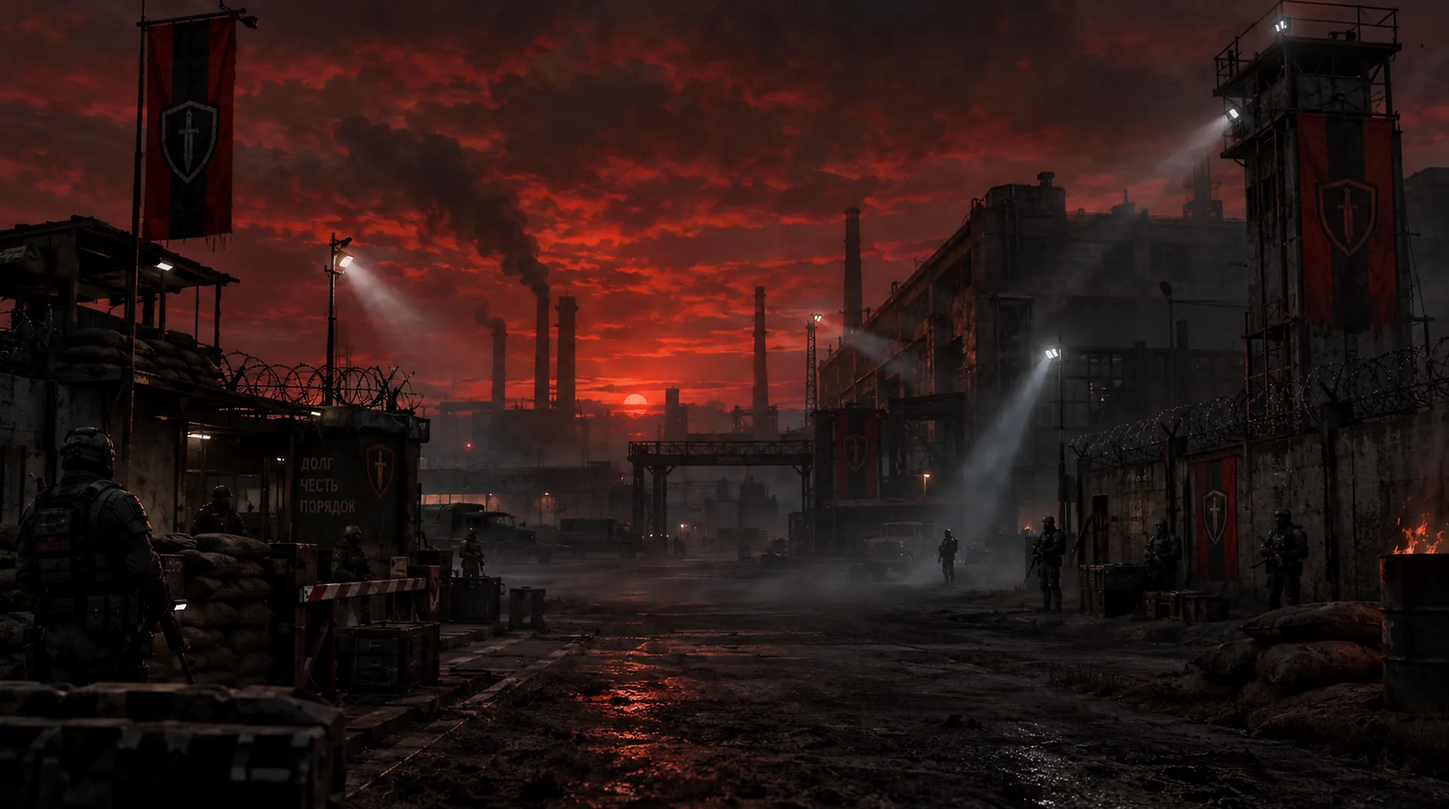
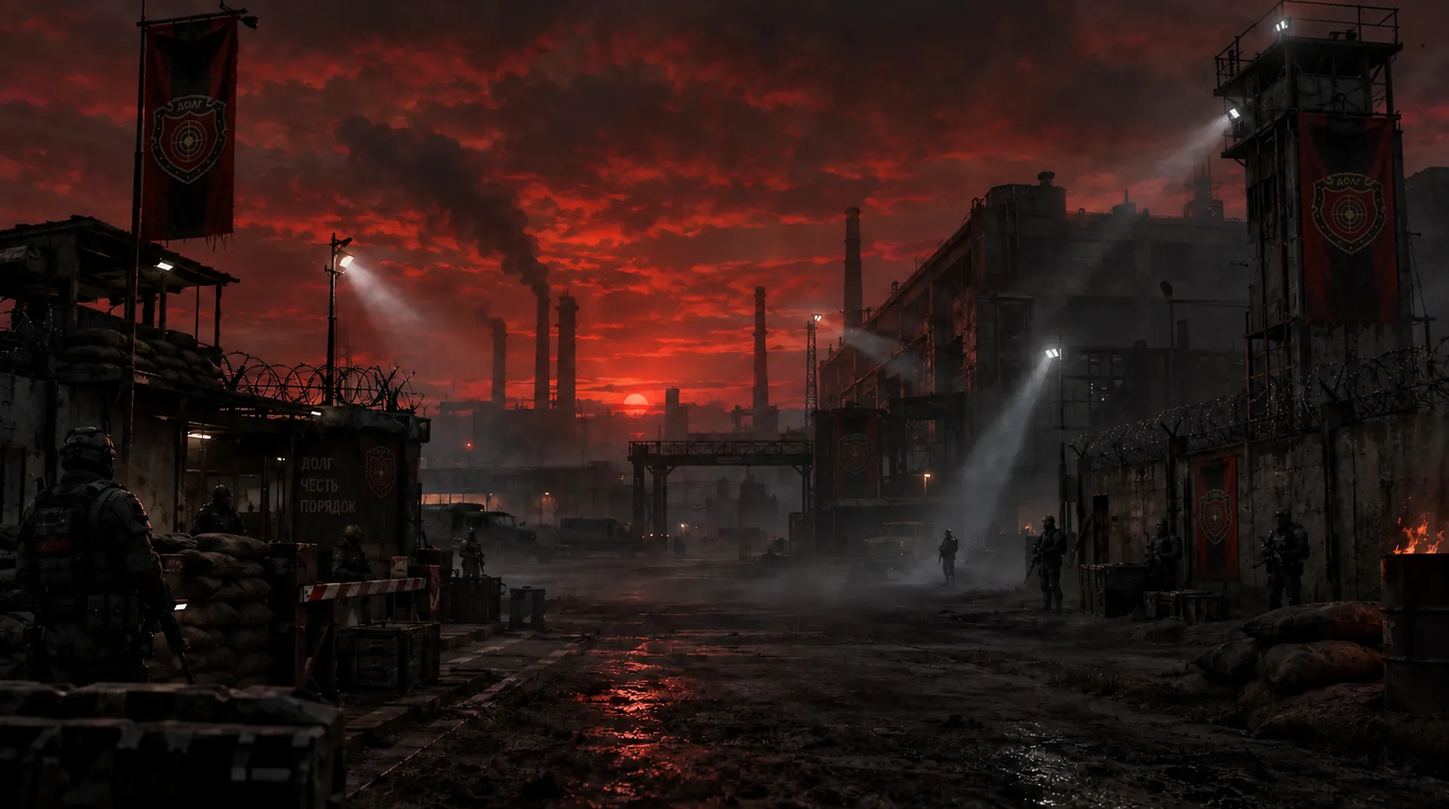
Исправления
Upd: Немного улучшены фоны для группировок Долг и Свобода

diff --git a/ui.js b/ui.js
@@ -65,16 +65,17 @@ window.__roll = function (el, text) {
   ];
   /* Значки группировок — шевроны-нашивки 64×72: щиток с полосой сверху, пунктир-прострочка по краю,
      внутри каноничная эмблема без надписей. Наёмники — орёл, Долг — мишень, Свобода — волк с листьями,
-     Учёные — колба, Монолит — атом, фигура и глаз.
+     Монолит — атом, фигура и глаз.
      Рассвет и Вольные сталкеры — каноничные нашивки целиком: синий щит с солнцем, чайками и лентой,
-     кожаная нашивка с жёлтым знаком радиации. Цвета зашиты в SVG, CSS их не перекрашивает */
+     кожаная нашивка с жёлтым знаком радиации. Учёные — каноничная круглая нашивка (колба, ДНК, венок),
+     картинкой webp 160×160 прямо в SVG (data:), чтобы работала и в превью build-previews.js. Цвета зашиты в SVG, CSS их не перекрашивает */
   var GLYPHS = {
     merc: '<path d="M7 3h50a3 3 0 0 1 3 3v34c0 14-12 24-28 30C16 64 4 54 4 40V6a3 3 0 0 1 3-3z" fill="#0b0f18" stroke="#5f8ac9" stroke-width="3.5" stroke-linejoin="round"/><path d="M5.8 4.8h52.4V13H5.8z" fill="#5f8ac9"/><path d="M10 8h44v32c0 11-9.5 19-22 24C19.5 59 10 51 10 40z" fill="none" stroke="#e3a24a" stroke-opacity=".55" stroke-width="1.3" stroke-dasharray="3 2.4"/><path d="M52.1 32.8 49.6 29.6 47.2 27.3 45.2 25.9 44.7 25.5 43.2 24.5 40.3 23.0 40.0 22.9 39.8 22.7 39.6 22.7 38.5 22.1 36.3 21.4 35.3 21.2 35.2 20.9 35.7 20.4 36.3 19.3 36.9 18.6 37.0 18.2 36.5 18.5 35.7 18.7 35.2 19.0 34.8 19.0 34.7 19.2 34.0 19.3 33.7 19.4 30.0 19.4 29.7 19.3 29.1 19.3 28.9 19.1 27.0 19.1 26.7 19.0 25.8 19.0 25.6 18.8 23.1 18.8 22.9 18.7 21.6 18.9 20.2 19.5 19.9 19.9 19.7 20.0 19.3 20.5 19.3 20.7 18.8 21.4 19.1 21.9 19.8 21.9 20.0 22.0 21.5 21.2 22.4 21.1 22.5 21.4 22.0 22.1 22.1 22.5 21.6 23.0 20.3 23.4 19.2 23.4 19.0 23.6 17.5 23.6 17.3 23.5 16.9 23.6 16.7 23.4 16.4 23.4 16.2 23.3 16.4 22.9 17.0 23.0 17.2 22.9 19.7 22.8 20.1 22.6 20.2 22.5 20.0 22.3 18.1 22.4 17.8 22.5 16.4 22.5 16.1 22.7 15.4 22.7 14.9 22.8 14.7 23.1 13.3 23.1 13.1 23.3 12.3 23.3 11.2 23.7 10.4 24.7 10.0 26.3 10.2 26.8 10.2 27.4 10.5 27.7 10.5 28.1 10.8 28.4 11.0 29.0 11.6 29.5 11.9 29.6 12.5 30.2 12.7 30.2 12.2 29.0 12.1 28.2 12.4 27.4 13.2 26.6 13.4 26.6 14.5 26.1 15.2 26.0 16.1 26.1 16.9 26.3 17.5 26.2 18.5 26.5 19.1 26.4 19.4 26.5 20.7 26.6 20.9 26.8 20.8 27.1 19.9 27.1 19.7 27.3 19.4 27.1 18.8 27.1 18.5 26.9 18.0 26.7 16.9 26.7 15.9 27.3 16.1 27.7 16.5 27.6 16.8 27.2 18.1 27.2 18.6 27.5 19.1 27.5 19.4 27.7 20.1 27.7 20.4 27.5 21.4 27.4 21.6 27.5 21.6 27.7 20.8 28.4 20.2 28.4 19.7 28.7 19.3 28.6 18.5 28.7 18.3 28.6 16.9 28.6 15.8 28.4 15.5 28.6 15.3 28.4 14.5 28.4 13.3 28.0 13.1 27.7 12.7 27.6 12.5 27.8 12.5 28.0 13.1 29.3 13.9 29.8 14.6 30.1 15.5 30.1 16.4 30.5 17.3 30.4 17.5 30.5 19.6 30.6 20.6 30.8 21.1 31.1 21.3 31.5 22.4 32.4 22.6 32.9 22.8 32.8 22.7 32.6 22.7 32.0 22.5 31.7 22.7 31.4 22.9 31.3 23.7 32.2 24.2 33.1 24.2 33.3 24.0 33.5 24.0 33.9 24.4 34.8 24.6 34.8 24.8 35.1 25.0 35.0 25.0 34.3 25.2 33.7 25.4 33.7 25.7 34.0 26.6 36.1 26.6 37.2 26.7 37.4 26.6 38.1 26.6 39.2 26.1 40.6 25.8 41.2 25.7 41.6 25.0 42.1 24.0 43.6 23.4 44.1 23.5 44.2 23.6 44.2 24.1 43.6 24.4 43.6 24.6 43.9 24.4 44.2 22.5 46.0 21.8 46.4 21.6 46.7 21.3 46.7 20.7 47.2 19.3 47.7 18.5 48.3 18.5 48.6 18.8 48.6 19.1 48.3 19.7 48.2 19.8 48.3 19.8 48.5 19.1 49.2 18.8 49.3 18.1 50.0 17.0 50.7 16.7 51.0 16.5 51.1 16.3 51.4 16.1 51.4 15.5 51.7 15.3 52.0 15.1 52.1 14.8 52.4 14.3 52.6 13.5 53.2 12.7 53.6 11.9 54.1 12.4 54.2 12.6 53.9 13.1 53.9 14.1 53.6 14.4 53.7 15.1 53.4 16.0 53.3 16.8 53.0 18.6 53.0 19.0 53.6 19.0 54.7 18.8 54.9 19.1 55.3 19.5 55.4 19.8 54.9 20.7 54.6 21.1 54.3 23.1 53.5 23.6 53.5 24.0 53.9 24.0 54.5 24.1 54.7 24.3 55.7 24.6 55.8 24.8 55.6 25.0 55.2 25.7 54.4 25.7 54.1 26.3 53.3 27.2 51.8 28.6 49.0 29.1 47.3 29.1 46.9 29.4 46.5 29.4 45.7 29.5 45.5 29.6 44.5 29.7 44.3 29.7 42.9 29.8 42.6 29.8 40.0 30.0 39.6 29.7 38.9 29.5 37.4 29.3 37.1 29.3 36.8 28.7 35.3 28.5 34.4 28.2 33.9 28.2 33.7 28.6 33.5 28.8 33.9 29.1 34.1 29.6 35.6 29.9 36.0 29.9 36.3 30.2 36.8 30.4 38.7 30.6 39.0 30.6 40.8 30.7 41.0 30.7 42.5 30.9 42.7 30.9 43.8 30.7 44.0 30.9 44.4 30.8 44.8 30.9 45.5 30.7 46.1 30.7 48.8 30.4 49.2 30.4 49.6 30.3 49.9 30.2 50.5 29.4 52.3 28.4 54.0 28.1 54.4 27.8 55.0 28.7 54.6 29.2 54.6 29.4 54.3 30.0 54.2 30.6 54.3 31.0 54.6 31.3 54.6 31.7 55.0 33.6 53.5 33.9 53.5 34.1 53.2 34.7 53.1 34.8 53.3 35.7 53.8 36.0 54.2 36.8 54.6 37.1 54.4 36.8 53.2 37.0 52.9 37.0 52.5 37.2 52.0 37.2 51.6 37.3 51.5 37.3 48.6 37.1 48.3 37.1 47.2 36.9 46.5 36.8 45.4 36.6 44.9 36.6 44.4 36.3 43.8 36.3 43.4 36.0 43.0 35.8 42.3 35.2 41.1 35.2 40.8 34.7 40.1 34.4 39.1 34.0 38.6 33.4 37.3 33.0 37.0 32.4 35.7 32.0 35.4 31.9 35.0 31.3 34.4 30.5 33.1 29.5 32.2 29.2 31.6 27.4 29.9 26.4 29.1 26.0 28.5 23.9 27.1 23.7 26.8 23.7 26.7 23.9 26.5 24.2 26.7 24.6 26.7 25.0 27.1 26.4 28.1 26.7 28.5 27.5 28.9 27.9 29.4 28.5 29.9 29.2 30.6 29.8 31.0 30.8 32.2 31.5 32.8 31.6 33.2 32.4 34.0 32.6 34.7 33.0 35.0 33.5 35.7 33.5 35.9 34.0 36.3 34.1 36.7 34.4 37.0 35.4 38.7 35.9 39.3 35.9 39.7 36.3 40.0 36.3 40.3 36.6 40.6 36.9 41.0 36.9 41.3 37.7 42.2 37.7 42.6 37.5 42.8 37.3 42.8 37.1 43.1 37.7 43.7 38.1 44.7 38.8 45.6 38.8 45.9 39.9 49.0 39.9 49.6 40.5 51.2 40.5 51.6 40.6 51.9 40.6 52.5 40.5 52.9 40.6 53.2 40.7 54.0 40.5 55.2 40.7 55.2 41.0 54.3 41.8 53.3 42.0 52.7 42.5 52.2 42.8 52.3 42.8 52.6 43.2 53.5 43.3 54.4 43.7 54.9 44.1 54.6 44.5 53.9 45.9 52.7 46.6 52.9 46.9 53.3 47.6 53.6 48.0 53.5 48.0 53.3 47.5 52.3 47.5 51.7 47.3 51.3 47.3 50.7 47.2 50.3 47.3 50.2 47.6 50.2 47.9 50.5 48.6 50.9 48.7 50.9 48.8 50.7 48.3 49.9 48.1 49.3 47.5 48.3 47.5 48.0 47.2 47.5 47.0 46.9 46.1 45.3 45.5 44.0 45.2 43.7 44.4 42.3 43.8 41.6 43.1 40.3 42.6 39.8 42.4 39.3 42.4 39.1 42.6 38.9 42.4 38.3 41.6 37.8 41.4 37.5 39.0 35.1 39.1 34.8 39.5 34.8 39.6 34.5 38.9 33.8 38.5 33.5 38.3 33.1 37.8 32.7 37.5 32.2 34.4 29.2 33.9 29.0 32.7 28.0 31.5 27.4 30.8 26.9 30.5 26.9 30.0 26.6 29.6 26.5 29.0 26.0 28.1 25.7 27.7 25.4 27.2 25.4 25.6 24.7 24.0 24.4 23.9 24.3 24.0 23.8 24.4 23.4 24.7 23.3 24.8 22.9 25.4 23.2 25.5 23.9 25.8 23.9 26.2 23.5 28.7 23.1 28.9 23.4 28.3 24.4 28.4 24.7 29.3 24.8 29.5 24.9 30.9 25.1 33.5 25.9 34.9 26.8 35.1 27.1 35.3 27.1 35.8 27.4 36.8 28.2 37.0 28.2 37.3 28.5 37.6 28.6 37.4 28.9 36.8 28.6 35.7 28.6 34.5 28.1 34.0 28.2 34.8 28.7 35.6 29.4 35.8 29.4 36.0 29.8 36.4 30.1 36.6 30.1 37.5 30.8 37.6 31.1 38.3 31.9 39.2 32.5 40.9 34.3 41.2 34.4 42.1 35.4 43.1 36.1 43.8 36.9 44.3 37.3 44.5 37.3 44.7 37.6 44.9 37.7 45.3 38.1 44.9 38.2 44.2 37.6 43.5 37.4 42.4 36.5 41.5 36.1 41.5 36.3 42.3 36.9 42.5 37.4 42.9 37.7 43.1 38.0 43.3 38.3 43.4 38.6 43.9 39.0 44.1 39.6 44.5 39.8 45.0 40.7 45.6 41.5 45.6 41.8 45.9 42.0 47.0 43.7 47.5 44.3 47.5 44.6 47.9 45.0 47.9 45.3 48.9 47.2 48.9 47.5 49.2 48.0 49.5 48.9 49.5 49.2 49.8 49.6 49.8 50.3 50.1 50.6 50.1 51.1 50.4 51.7 50.5 52.6 50.8 52.8 51.0 53.6 51.0 52.7 51.2 52.5 51.2 51.7 51.3 51.5 51.3 50.4 51.5 50.2 51.5 48.7 51.6 48.6 51.8 48.7 51.9 49.2 53.5 50.9 53.9 51.8 54.0 51.7 53.8 50.2 53.6 49.9 53.6 49.3 53.3 48.8 53.3 46.9 53.2 46.6 53.3 45.8 53.2 45.6 53.2 44.0 53.0 43.8 53.0 42.9 52.9 42.7 53.0 41.8 52.8 40.9 52.7 39.9 52.5 39.3 52.5 38.6 52.7 38.5 53.7 39.0 53.9 39.0 53.9 38.8 53.5 38.3 53.3 37.6 52.9 37.3 52.4 36.3 51.9 35.0 51.5 34.7 51.5 34.4 50.6 32.9 50.6 32.7 50.8 32.5 50.9 32.5 51.2 32.7 51.5 32.7 51.8 33.0 52.1 33.0ZM19.0 52.3 18.1 52.5 17.8 52.4 18.0 52.2 18.7 52.0ZM46.9 51.8 47.4 52.3 47.3 52.7 46.7 52.2ZM36.8 48.7 37.0 48.9 36.9 49.8 37.0 50.1 36.9 50.3 37.0 50.6 36.9 50.9 36.7 50.7 36.7 48.8ZM52.0 39.3 52.2 39.4 52.1 39.8 51.9 39.6ZM13.4 28.7 13.7 28.6 13.8 28.8 14.4 28.9 14.1 29.3 13.9 29.3 13.7 29.1 13.7 28.9 13.4 28.9ZM23.8 22.8 24.0 22.9 24.0 23.4 23.9 23.6 23.6 23.5ZM27.3 20.6 27.0 21.4 25.7 23.0 25.4 22.9 24.8 22.2 24.6 22.3 24.2 22.2 23.2 22.3 23.1 22.4 22.8 22.3 22.5 22.4 22.2 22.3 22.5 21.9 22.9 21.9 23.4 21.6 23.7 21.6 24.0 21.3 25.1 20.9 26.0 20.5 26.6 20.4ZM25.6 19.4 26.0 19.4 26.4 19.6 26.7 19.6 26.8 19.8 26.6 20.0 26.1 20.0Z" fill="#e3cf7a" fill-rule="evenodd"/><path d="M29.5 33.0 29.4 33.3 29.6 33.5 29.6 34.0 29.9 34.5 30.0 35.2 30.5 35.9 30.5 36.2 30.7 36.5 30.9 38.3 31.2 39.0 31.2 40.6 31.5 41.4 31.3 42.1 31.5 43.1 31.5 44.9 31.3 45.6 31.3 48.8 31.0 49.2 30.9 50.6 30.5 51.5 29.4 53.4 29.7 53.7 30.5 53.4 30.8 53.4 31.3 53.8 31.7 54.0 32.0 54.0 32.5 53.8 33.0 53.4 33.6 53.2 33.9 52.8 34.6 52.5 35.3 52.8 35.8 53.3 36.3 53.3 36.7 52.8 36.6 52.3 36.7 52.1 36.7 47.0 36.6 46.8 36.4 45.7 35.8 44.2 35.7 43.3 35.0 41.6 34.7 41.3 34.7 41.0 34.0 39.4 33.5 38.8 33.4 38.6 33.0 37.9 32.9 37.5 32.2 36.5 32.0 36.0 31.6 35.7 31.4 35.2 30.9 34.7 30.2 33.6 29.7 33.0ZM11.1 24.6 11.1 24.8 10.8 25.1 10.8 25.4 10.7 25.7 10.7 27.0 11.3 28.1 11.7 27.8 11.8 27.4 12.1 26.8 12.7 26.3 13.1 26.1 13.4 26.1 14.5 25.5 15.8 25.5 16.0 25.6 16.7 25.5 16.9 25.7 17.8 25.8 19.3 25.8 19.9 26.1 20.7 26.1 20.9 26.2 21.3 26.2 22.2 26.7 22.4 26.9 22.4 27.6 21.6 28.9 21.2 29.0 20.9 29.0 20.6 29.3 17.2 29.3 17.0 29.1 14.3 29.1 14.2 29.3 14.6 29.5 15.7 29.5 16.2 29.8 20.3 30.2 21.1 30.5 21.8 30.9 21.9 30.7 22.0 30.3 22.2 30.1 22.5 30.1 22.9 30.7 23.8 31.4 24.0 31.8 24.7 32.3 25.1 32.4 26.0 33.4 27.2 36.1 27.2 37.7 27.0 38.0 27.2 38.6 26.9 39.8 27.0 40.1 26.5 41.1 26.0 41.7 26.0 42.0 26.6 42.2 26.7 42.5 26.0 43.3 25.9 43.8 24.1 45.4 23.9 45.5 23.3 46.2 22.8 46.6 22.4 46.7 22.1 47.2 22.2 47.6 22.0 47.9 21.7 48.0 21.3 48.5 20.8 48.7 19.9 49.4 19.6 49.5 18.9 50.2 18.6 50.3 18.3 50.6 17.0 51.4 16.4 51.9 16.2 51.9 15.9 52.4 15.6 52.5 15.7 52.7 16.4 52.7 18.7 52.0 19.0 52.2 19.3 52.6 19.4 53.8 19.7 54.4 20.0 54.5 22.8 53.1 23.2 52.8 23.5 52.5 23.7 52.5 24.1 52.8 24.7 54.5 24.9 54.6 25.9 53.2 26.2 52.3 26.9 51.6 27.2 50.9 27.5 50.6 27.7 49.9 28.2 48.6 28.3 48.0 28.5 47.8 28.5 47.3 29.0 46.3 29.0 45.7 29.1 45.5 29.1 44.4 29.3 44.2 29.3 40.7 29.4 40.5 29.4 39.4 29.1 38.5 29.0 37.7 28.7 37.2 28.7 36.5 28.0 34.9 27.5 33.4 27.7 33.2 28.3 33.0 28.5 32.7 29.1 32.7 29.2 32.5 28.8 32.3 28.5 31.7 27.8 31.1 26.4 30.0 26.3 29.6 25.9 29.4 25.6 29.0 23.9 27.7 23.6 27.7 23.0 27.1 23.0 26.6 23.9 25.7 24.1 25.7 25.2 26.7 26.0 27.0 26.5 27.4 27.1 28.1 27.8 28.6 28.6 29.5 29.5 30.2 29.8 30.3 30.3 30.7 30.4 31.0 31.1 31.7 31.3 32.2 31.8 32.6 32.4 33.4 33.0 34.1 33.3 34.5 33.4 34.8 33.8 35.3 34.5 36.4 35.3 37.3 35.4 37.7 35.7 38.0 36.1 38.8 36.6 39.3 36.8 39.9 37.4 41.0 38.1 41.8 39.1 43.0 39.6 43.4 39.7 43.8 39.2 44.0 38.9 44.0 38.8 44.3 39.5 45.9 39.5 46.2 39.7 46.7 39.9 47.0 40.0 47.8 40.3 48.2 40.5 49.5 40.9 50.4 40.9 51.1 41.2 51.7 41.2 52.5 41.5 52.6 41.8 52.3 42.2 51.4 42.6 50.9 42.9 50.9 43.2 51.3 43.3 52.4 43.9 53.6 44.3 53.6 45.6 52.2 46.0 52.0 46.2 52.0 46.5 52.2 46.7 52.1 46.8 51.8 46.7 51.0 46.3 50.1 46.2 49.3 46.3 48.7 46.5 48.6 46.8 48.6 47.0 48.2 46.7 47.8 46.7 47.4 46.3 46.6 46.0 46.3 45.8 45.8 45.5 45.5 45.3 44.6 44.6 43.9 44.5 43.5 44.2 43.2 44.0 42.6 43.3 41.8 42.7 40.8 42.7 40.6 41.3 39.3 41.1 38.6 41.1 38.0 40.5 37.5 38.9 35.8 38.0 35.3 37.1 34.4 37.1 34.3 37.7 34.0 37.8 33.8 37.0 32.5 33.3 29.0 32.3 28.7 32.0 28.3 31.6 28.2 30.3 27.3 29.7 27.3 27.2 25.9 26.5 25.8 26.0 25.6 25.0 25.5 24.9 25.3 23.9 25.4 23.2 24.7 23.5 23.3 23.1 23.1 22.5 23.1 22.0 23.3 21.3 23.8 20.8 23.8 20.6 24.0 20.1 24.1 16.4 24.1 15.9 23.9 14.9 23.8 14.7 23.7 13.9 23.8 13.6 23.7 12.1 24.1 11.6 24.1ZM27.9 19.9 28.2 20.2 28.2 20.5 28.0 21.1 27.6 21.4 27.4 21.9 27.0 22.2 27.0 22.5 27.2 22.7 27.4 22.8 28.0 22.5 29.3 22.5 29.4 22.2 29.6 22.2 30.0 22.6 29.9 23.4 29.6 23.6 29.6 23.8 30.1 24.5 31.6 24.7 33.5 25.4 34.7 26.0 37.3 27.9 38.4 28.4 39.2 29.3 39.9 29.7 40.1 30.2 39.7 30.3 39.4 30.1 39.1 30.3 38.0 29.9 37.8 30.1 37.8 30.4 38.6 31.0 39.5 32.1 39.9 32.3 41.4 34.0 41.9 34.2 42.9 35.2 43.3 35.4 44.1 36.4 45.2 37.2 45.7 37.5 46.2 37.9 46.4 38.5 46.0 38.9 45.9 39.3 45.4 39.5 45.4 39.7 45.9 40.5 46.0 41.0 46.6 41.8 46.9 42.5 47.3 42.8 47.4 43.1 48.2 44.0 48.2 44.3 49.8 47.3 49.8 47.6 50.4 48.9 50.5 49.6 50.7 49.9 50.9 50.0 51.0 49.8 50.9 49.0 51.0 48.8 51.0 47.2 51.4 46.8 51.7 46.9 51.7 47.1 51.9 47.4 51.9 47.8 52.6 48.5 52.7 48.5 52.9 48.2 52.8 47.8 52.8 46.7 52.7 46.5 52.8 46.1 52.8 44.3 52.6 43.1 52.5 42.9 52.2 40.0 51.9 39.6 51.9 39.0 51.5 38.6 51.6 38.2 51.5 38.0 51.5 37.5 51.7 37.2 52.1 36.9 52.1 36.8 51.8 36.4 51.4 35.4 50.9 34.8 50.3 33.3 49.9 33.0 49.5 32.1 49.1 31.8 48.7 31.1 48.7 30.7 48.8 30.6 49.3 30.7 49.5 30.4 48.8 29.6 47.5 28.3 46.6 27.7 46.3 27.3 45.9 27.2 44.9 26.3 44.0 25.7 43.6 25.7 42.4 24.7 42.0 24.7 41.2 24.1 40.9 24.1 40.6 23.8 39.3 23.3 38.6 22.8 38.0 22.7 37.0 22.3 36.0 22.1 35.6 21.8 34.6 21.7 34.3 21.2 35.1 20.4 35.1 20.2 34.7 20.0 33.8 20.1 33.6 20.3 32.7 20.3 32.5 20.1 30.8 20.1 30.6 20.0 29.0 20.0 28.7 19.8ZM20.0 21.0 20.2 21.2 20.7 21.1 22.4 20.2 23.1 20.1 23.8 19.8 24.1 19.9 24.1 20.4 24.3 20.6 24.8 20.4 25.3 20.4 25.7 20.2 25.8 19.9 25.3 19.6 25.0 19.5 23.9 19.6 23.4 19.5 22.0 19.6 21.0 20.0 20.6 20.4 20.4 20.4Z" fill="#4a6cf0" fill-rule="evenodd"/>',
     dolg: '<path d="M7 3h50a3 3 0 0 1 3 3v34c0 14-12 24-28 30C16 64 4 54 4 40V6a3 3 0 0 1 3-3z" fill="#9a1f1c" stroke="#d9483f" stroke-width="3.5" stroke-linejoin="round"/><path d="M5.8 4.8h52.4V13H5.8z" fill="#d9483f"/><path d="M10 8h44v32c0 11-9.5 19-22 24C19.5 59 10 51 10 40z" fill="none" stroke="#e0b04a" stroke-opacity=".55" stroke-width="1.3" stroke-dasharray="3 2.4"/><g stroke="#e0b04a" stroke-width="1.2"><circle cx="32" cy="37" r="16" fill="#1b1f33"/><circle cx="32" cy="37" r="11.5" fill="#9a1f1c"/><circle cx="32" cy="37" r="7.2" fill="#1b1f33"/><circle cx="32" cy="37" r="3.6" fill="#e0b04a"/></g><path d="M32 18v38M13 37h38" stroke="#e0b04a" stroke-width="1.6"/>',
     svoboda:
       '<path d="M7 3h50a3 3 0 0 1 3 3v34c0 14-12 24-28 30C16 64 4 54 4 40V6a3 3 0 0 1 3-3z" fill="#0a1a0e" stroke="#4fb058" stroke-width="3.5" stroke-linejoin="round"/><path d="M5.8 4.8h52.4V13H5.8z" fill="#4fb058"/><path d="M10 8h44v32c0 11-9.5 19-22 24C19.5 59 10 51 10 40z" fill="none" stroke="#cfeedd" stroke-opacity=".55" stroke-width="1.3" stroke-dasharray="3 2.4"/><path d="M54.0 34.1 53.7 33.3 53.0 32.6 51.9 32.1 50.6 32.1 50.2 31.9 47.4 31.7 47.0 31.5 45.3 31.3 44.1 30.9 43.2 30.4 42.4 29.6 41.3 27.5 39.5 26.3 36.4 24.9 34.1 24.3 33.3 24.2 33.1 23.9 33.1 18.4 32.9 18.0 32.7 16.7 32.3 16.7 29.7 19.4 28.8 20.0 22.9 23.5 21.1 24.7 19.1 26.3 19.0 26.0 19.5 24.6 19.4 24.6 16.7 27.7 14.6 31.0 14.4 30.9 14.4 30.4 14.8 29.0 14.5 29.1 13.7 30.3 12.0 33.6 11.1 37.1 10.7 36.9 10.5 35.5 10.3 35.0 10.2 35.7 10.0 36.1 10.0 40.6 10.2 40.9 10.4 42.2 11.4 44.9 11.4 45.3 17.4 45.3 17.2 44.6 17.2 43.3 17.0 43.0 17.0 41.3 16.8 41.0 16.8 36.1 17.1 35.8 17.4 36.9 17.4 37.7 17.6 38.1 17.8 39.6 18.7 41.8 18.8 38.3 19.0 37.9 19.0 37.1 19.2 36.7 19.4 35.5 19.9 34.1 20.1 33.8 20.3 34.1 20.3 35.9 20.6 35.5 21.2 33.6 23.7 28.9 24.2 28.4 28.1 22.2 31.7 18.7 31.9 18.7 32.1 19.0 32.1 19.4 31.9 19.8 31.9 21.0 31.5 22.2 31.5 22.9 30.9 24.4 27.7 25.9 26.9 26.5 24.6 29.1 22.7 32.2 21.1 36.7 20.3 40.2 19.9 41.1 19.7 42.8 19.5 43.1 19.5 44.0 19.3 44.3 19.3 45.3 24.6 45.3 24.4 44.6 24.4 43.7 24.2 43.4 24.2 41.9 24.0 41.6 24.0 37.9 24.4 37.5 24.7 38.7 24.7 39.4 24.9 39.7 24.9 40.4 25.2 40.7 25.2 37.3 25.4 36.9 25.4 35.9 25.6 35.5 25.6 34.9 25.8 34.5 26.0 33.0 26.5 31.7 26.8 31.4 26.8 31.8 26.6 32.2 26.7 36.3 26.5 36.7 26.5 45.3 47.1 45.3 46.8 45.0 44.9 45.0 44.3 44.6 44.7 43.8 44.7 42.6 44.5 42.6 43.7 43.5 42.1 44.2 41.9 44.0 41.9 42.5 41.8 42.3 41.5 42.4 40.7 43.5 39.4 43.9 39.2 43.6 38.2 43.8 37.1 43.8 36.2 43.3 35.0 42.0 35.2 41.9 36.4 41.9 36.7 41.7 38.0 41.7 38.3 41.5 38.8 41.5 43.7 39.3 46.6 38.5 47.4 38.5 47.8 38.3 50.6 38.3 51.4 38.5 52.1 39.3 52.8 37.9 52.8 36.9 52.3 35.7 50.6 34.3 50.6 33.4 50.9 33.3 52.9 35.5 53.7 35.1 54.0 34.5ZM37.0 26.3 38.9 28.1 39.3 28.7 40.3 31.3 40.2 31.7 39.5 31.7 37.4 30.5 37.0 30.5 36.9 30.7 37.8 31.8 37.8 32.6 34.5 29.8 34.7 29.4 35.2 29.4 35.5 29.2 37.0 29.2 37.2 29.0 37.3 28.2 36.9 26.9Z" fill="#eafbe9" fill-rule="evenodd"/><path d="M51.8 32.9 51.9 33.5 52.7 34.2 53.1 34.3 53.1 33.5 52.3 32.9ZM52.2 37.1 51.7 35.9 50.2 34.7 50.0 34.3 50.0 32.8 49.6 32.5 48.2 32.5 47.8 32.3 45.1 31.9 43.0 31.0 41.8 29.8 41.7 29.4 41.1 28.3 40.5 27.7 39.1 26.9 38.9 26.9 38.9 27.1 39.7 28.1 40.4 29.4 40.8 30.9 41.7 32.1 41.7 32.4 41.6 32.5 40.3 32.5 40.0 32.3 39.3 32.3 38.8 32.1 38.8 32.9 39.3 34.1 39.2 34.5 38.8 34.5 33.5 29.6 33.7 29.2 35.1 28.6 36.2 28.6 36.4 28.4 36.5 27.4 36.3 27.1 36.3 26.4 35.9 25.6 34.8 25.1 33.1 24.8 32.3 23.8 32.3 23.5 32.1 23.4 31.5 24.6 31.1 25.0 29.3 25.7 27.9 26.5 27.0 27.3 25.2 29.3 24.8 30.0 24.4 30.5 22.9 33.4 21.5 37.5 21.1 39.6 20.7 40.3 20.7 41.0 20.3 41.9 20.3 42.8 20.1 43.1 20.1 44.0 19.9 44.3 19.9 45.3 24.0 45.3 23.8 44.8 23.8 43.9 23.6 43.6 23.6 42.5 23.4 42.2 23.4 37.7 23.6 37.3 23.8 35.1 24.0 34.7 24.4 34.5 24.7 35.3 25.0 35.3 25.4 33.9 25.4 33.0 26.0 31.2 27.1 29.1 27.5 29.2 27.5 29.7 27.3 30.0 27.3 33.9 27.1 34.3 27.1 45.3 43.7 45.3 43.0 44.8 41.3 45.0 41.1 44.8 41.0 44.2 39.6 44.6 37.5 44.6 35.6 43.7 34.1 42.1 33.9 41.3 34.1 41.1 37.8 41.1 38.1 40.9 38.6 40.9 42.9 38.9 43.4 38.9 45.5 38.1 46.2 38.1 47.4 37.7 50.8 37.7 51.9 38.0 52.2 37.5ZM27.6 21.6 26.1 22.3 21.1 25.5 18.4 28.0 18.1 28.0 18.0 27.5 17.8 27.4 15.7 30.3 13.6 34.1 13.1 34.3 12.9 33.7 12.7 33.9 11.8 36.5 11.8 37.1 11.6 37.5 11.6 38.7 11.4 39.4 11.1 39.5 10.8 39.1 10.6 39.1 10.6 40.4 12.1 45.3 16.8 45.3 16.6 44.8 16.6 43.5 16.4 43.2 16.4 41.9 16.2 41.6 16.2 35.9 16.4 35.5 16.6 33.6 17.1 32.3 17.4 32.4 17.6 35.5 17.8 35.9 18.0 37.1 18.3 37.2 19.4 33.4 20.7 30.3 21.0 30.0 21.3 30.1 21.3 31.4 21.5 31.5 23.1 28.7 25.2 25.8 26.9 22.9 27.4 22.4 27.6 21.8Z" fill="#2fc24a" fill-rule="evenodd"/><path transform="translate(27 60) rotate(-40)" d="M0 0C-4-2.5-4-7 0-10C4-7 4-2.5 0 0z" fill="#9ccc3a" stroke="#0b1a0e" stroke-width=".8"/><path transform="translate(32 60) rotate(0)" d="M0 0C-4-2.5-4-7 0-10C4-7 4-2.5 0 0z" fill="#9ccc3a" stroke="#0b1a0e" stroke-width=".8"/><path transform="translate(37 60) rotate(40)" d="M0 0C-4-2.5-4-7 0-10C4-7 4-2.5 0 0z" fill="#9ccc3a" stroke="#0b1a0e" stroke-width=".8"/>',
     science:
-      '<path d="M7 3h50a3 3 0 0 1 3 3v34c0 14-12 24-28 30C16 64 4 54 4 40V6a3 3 0 0 1 3-3z" fill="#0a1a26" stroke="#57c4f0" stroke-width="3.5" stroke-linejoin="round"/><path d="M5.8 4.8h52.4V13H5.8z" fill="#57c4f0"/><path d="M10 8h44v32c0 11-9.5 19-22 24C19.5 59 10 51 10 40z" fill="none" stroke="#fff" stroke-opacity=".55" stroke-width="1.3" stroke-dasharray="3 2.4"/><path transform="translate(14.4 18) scale(1.5)" fill="#cdefff" fill-rule="evenodd" d="M8.6 2.4h6.8v1.9h-1.2v4.5l5.5 9.3c1 1.6-.2 3.5-2 3.5H6.3c-1.8 0-3-1.9-2-3.5l5.5-9.3V4.3H8.6zM11.6 4.3h.8v5.1l2.4 4H9.2l2.4-4z"/>',
[1 lines of base64/hex data omitted]
     monolith:
       '<path d="M7 3h50a3 3 0 0 1 3 3v34c0 14-12 24-28 30C16 64 4 54 4 40V6a3 3 0 0 1 3-3z" fill="#1f8f8f" stroke="#d9a52c" stroke-width="3.5" stroke-linejoin="round"/><path d="M5.8 4.8h52.4V13H5.8z" fill="#d9a52c"/><path d="M10 8h44v32c0 11-9.5 19-22 24C19.5 59 10 51 10 40z" fill="none" stroke="#f2d68a" stroke-opacity=".55" stroke-width="1.3" stroke-dasharray="3 2.4"/><circle cx="32" cy="36" r="15" fill="#6b4a12"/><circle cx="32" cy="36" r="11" fill="#c9952a"/><circle cx="32" cy="36" r="7" fill="#f0cf6a"/><path d="M32 21.5a5.2 5.2 0 1 1 0 10.4a5.2 5.2 0 1 1 0-10.4zM20 62c0-14 4.5-24 12-24s12 10 12 24z" fill="#2aa7a3"/><g fill="none" stroke="#f4f1e6" stroke-width="1.5"><ellipse cx="32" cy="31" rx="13.5" ry="5"/><ellipse cx="32" cy="31" rx="13.5" ry="5" transform="rotate(60 32 31)"/><ellipse cx="32" cy="31" rx="13.5" ry="5" transform="rotate(-60 32 31)"/></g><path d="M26 49q6-5 12 0q-6 5-12 0z" fill="#f4f1e6"/><circle cx="32" cy="49" r="1.7" fill="#14304a"/>',
     rassvet:

diff --git a/tour.js b/tour.js
@@ -109,26 +109,55 @@
       text: "Выберите период — и увидите, кто вырос и на сколько мест поднялся."
     },
 
+    /* «Информация»: шаги сами открывают нужный раздел (и на телефоне — вкладку внутри раздела),
+       поэтому рассказ совпадает с тем, что на экране, какой бы раздел ни был открыт до тура */
     {
       g: "info",
       page: "/info",
-      sel: ["#infoSections", "#infoTabs"],
+      prep: infoView("levels"),
+      sel: "#infoSections",
       title: "Справочник сталкера",
-      text: "Две вкладки: прогресс по уровням и задания."
+      text: "Здесь два раздела: «Прогресс по уровням» — таблицы улучшений талантов, ПДА и персонажа, и «Задания» — награды за локации и калькулятор энергии. Начнём с первого."
     },
     {
       g: "info",
       page: "/info",
-      sel: "#infoGroups",
-      title: "Таблицы по уровням",
-      text: "Сколько стоит каждое улучшение таланта, опыт ПДА и персонажа по уровням — и сколько вам осталось до следующего."
+      prep: infoView("levels", "talents"),
+      sel: '[data-info-group="talents"]',
+      title: "Улучшение талантов",
+      text: "Сколько урона нужно нанести ради каждого очка таланта и сколько всего с начала. Очки, которые вы уже вложили в калькуляторе, отмечены, а кнопка «К текущему уровню» прокрутит таблицу к вашей строке."
     },
     {
       g: "info",
       page: "/info",
-      sel: ["#infoSections .top100-tab:nth-child(2)", "#infoTabs .top100-tab:nth-child(2)"],
-      title: "Награды за задания",
-      text: "Во вкладке «Задания» — награды за задания по всем локациям и калькулятор энергии."
+      prep: infoView("levels", "pda"),
+      sel: '[data-info-group="pda"]',
+      title: "Опыт ПДА",
+      text: "Сколько опыта нужно на каждый уровень ПДА и сколько всего с начала. Под таблицей — сколько опыта дают ПДА новичка, ветерана и учёного."
+    },
+    {
+      g: "info",
+      page: "/info",
+      prep: infoView("levels", "char"),
+      sel: '[data-info-group="char"]',
+      title: "Опыт персонажа",
+      text: "Опыт до каждого уровня персонажа. Уровень берётся из калькулятора: видно, сколько уже пройдено и сколько осталось до максимума."
+    },
+    {
+      g: "info",
+      page: "/info",
+      prep: infoView("tasks"),
+      sel: "#tasksRoot > .info-group:first-child",
+      title: "Калькулятор энергии",
+      text: "Раздел «Задания». Выберите локацию и сколько энергии готовы потратить — калькулятор покажет опыт, пули, репутацию и жетоны, а если энергии не хватает, сколько энергетиков докупить."
+    },
+    {
+      g: "info",
+      page: "/info",
+      prep: infoView("tasks"),
+      sel: "#tasksRoot > .info-group:nth-child(2)",
+      title: "Награды и выгода",
+      text: "Ниже — награды за полное прохождение каждой локации, итог за все этапы и выгода на единицу энергии. Зелёным отмечено самое выгодное значение в строке."
     },
 
     { g: "guides", page: "/guides", sel: "#guidesList", title: "Гайды игроков", text: "Советы от опытных игроков." },
@@ -156,6 +185,17 @@
     }
   ];
 
+  /* открыть раздел страницы «Информация» (levels / tasks) и, на телефоне, вкладку группы (talents / pda / char).
+     Кнопки те же, что нажимает посетитель, поэтому выбор запоминается как обычно */
+  function infoView(section, tab) {
+    return function () {
+      var b = d.querySelector('[data-section="' + section + '"]');
+      if (b && !b.classList.contains("active")) b.click();
+      if (!tab || !mobile()) return;
+      var t = d.querySelector('[data-info-tab="' + tab + '"]');
+      if (t && !t.classList.contains("active")) t.click();
+    };
+  }
   function ls(k, v) {
     try {
       if (v === undefined) return localStorage.getItem(k);
@@ -438,6 +478,7 @@
     ss(STEP, String(i));
     var s = STEPS[i];
     d.documentElement.classList.add("tour-on");
+    if (s.prep) s.prep();
     targets = [];
     render();
     place();

diff --git a/build-top100.js b/build-top100.js
@@ -454,7 +454,10 @@ const compactMap = map => {
 
 /* ---------- периоды ----------
    last — с прошлого обновления, остальные — за срок ms.
-   Период, у которого база совпала с уже добавленным, пропускаем: кнопка была бы дублем */
+   Снимок годится для периода, если ему не меньше срока за вычетом допуска (SLACK): обновления идут
+   не минута в минуту, и снимок 23,5 часа назад — это «за сутки», а не повод брать позавчерашний.
+   Совпала база у двух периодов — кнопка была бы дублем: «С прошлого обновления» уступает периоду
+   со сроком («За сутки» понятнее при ежедневных обновлениях), из периодов со сроком остаётся первый */
 const PERIODS = [
   { key: "last", label: "С прошлого обновления" },
   { key: "d1", label: "За сутки", ms: DAY },
@@ -462,22 +465,29 @@ const PERIODS = [
   { key: "d30", label: "За месяц", ms: 30 * DAY }
 ];
 
+const SLACK = ms => Math.min(ms * 0.25, 12 * 36e5);
 const periods = [];
 const changes = {};
 const usedBases = new Set();
 
+function periodBase(per) {
+  if (per.key === "last") return { base: previous, partial: false };
+  if (!older.length) return { base: null, partial: false };
+  const target = dataMs - per.ms + SLACK(per.ms);
+  let base = null;
+  for (const sn of older) if (snapTime(sn.id) <= target) base = sn; // самый свежий из достаточно старых
+  return base ? { base, partial: false } : { base: older[0], partial: true }; // истории не хватает
+}
+const timedBases = new Set(
+  PERIODS.filter(p => p.ms)
+    .map(p => periodBase(p).base)
+    .filter(Boolean)
+    .map(b => b.id)
+);
+
 for (const per of PERIODS) {
-  let base = null,
-    partial = false;
-  if (per.key === "last") base = previous;
-  else if (older.length) {
-    const target = dataMs - per.ms;
-    for (const sn of older) if (snapTime(sn.id) <= target) base = sn; // самый свежий из достаточно старых
-    if (!base) {
-      base = older[0];
-      partial = true;
-    } // истории не хватает
-  }
+  const { base, partial } = periodBase(per);
+  if (base && per.key === "last" && timedBases.has(base.id)) continue;
   if (base && usedBases.has(base.id)) continue;
 
   const delta = {},

diff --git a/player-card.js b/player-card.js
@@ -128,24 +128,28 @@
     }
     return v;
   }
-  /* индекс снимка-базы для периода (как в рейтинге: самый свежий снимок, которому уже не меньше срока) */
+  /* индекс снимка-базы для периода (как в рейтинге, build-top100.js: самый свежий снимок, которому
+     не меньше срока за вычетом допуска — четверть срока, но не больше 12 часов) */
   function baseIndex(per) {
     const d = data.dates,
       last = d.length - 1;
     if (last < 1) return null;
     if (per.key === "last") return last - 1;
     if (per.key === "all") return 0;
-    const target = d[last] - per.ms;
+    const target = d[last] - per.ms + Math.min(per.ms * 0.25, 12 * 36e5);
     let b = null;
     for (let i = 0; i < last; i++) if (d[i] <= target) b = i;
     return b;
   }
-  /* периоды, для которых есть база; одинаковая база у разных периодов — дубль, оставляем первый */
+  /* периоды, для которых есть база; одинаковая база у разных периодов — дубль: «С прошлого обновления»
+     уступает периоду со сроком, из остальных остаётся первый (как в рейтинге) */
   function availablePeriods() {
+    const timed = new Set(PERIODS.filter(p => p.ms).map(baseIndex));
     const seen = new Set();
     return PERIODS.filter(per => {
       const b = baseIndex(per);
       if (b === null || seen.has(b)) return false;
+      if (per.key === "last" && timed.has(b)) return false;
       seen.add(b);
       return true;
     });

diff --git a/top100.js b/top100.js
@@ -372,9 +372,15 @@ function renderPeriod() {
       (cur.partial ? "<small>Данных за полный период пока нет: считаем с самой ранней сохранённой даты</small>" : "")
     : "Показаны изменения <b>" + esc(cur.label.toLowerCase()) + "</b>";
   /* коротко: «05.10 15:20 → 19:29», полная фраза — в подсказке и для экранного диктора */
-  const full = range.textContent;
+  /* в подсказке две строки: период и, если он неполный, пояснение (textContent склеил бы их без пробела) */
+  const full = cur.from
+    ? "Показаны изменения с " +
+      cur.from +
+      (to ? " по " + to : "") +
+      (cur.partial ? "\n* Данных за полный период пока нет: считаем с самой ранней сохранённой даты" : "")
+    : range.textContent;
   range.title = full;
-  range.setAttribute("aria-label", full);
+  range.setAttribute("aria-label", full.replace("\n* ", ". "));
   if (cur.from) {
     const f = shortStamp(cur.from),
       t = to ? shortStamp(to) : null;
